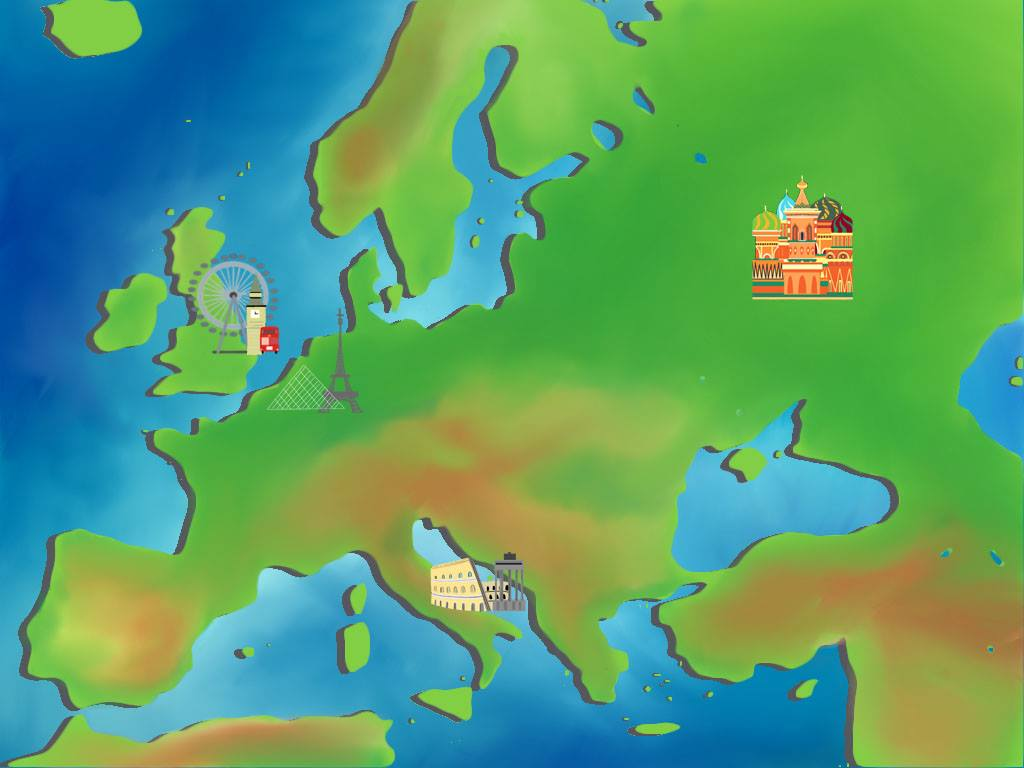
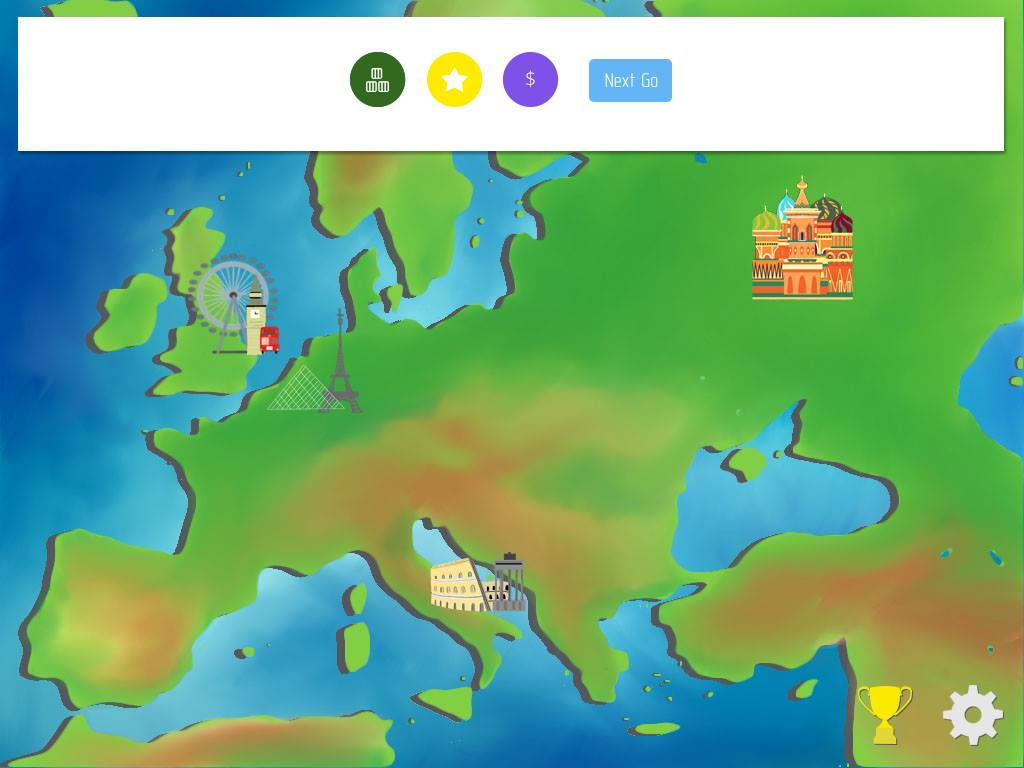
LabelButton hotfix + Esc to quit pushed scene functionality

Changed region(s): [[0.0, 0.0, 1.0, 0.2188], [0.8438, 0.875, 1.0, 0.9688]]

diff --git a/core/src/com/turkishdelight/taxe/Game.java b/core/src/com/turkishdelight/taxe/Game.java
@@ -7,11 +7,11 @@ import com.badlogic.gdx.ApplicationAdapter;
 import com.badlogic.gdx.Gdx;
 import com.badlogic.gdx.graphics.GL20;
 import com.badlogic.gdx.graphics.g2d.SpriteBatch;
+import com.turkishdelight.taxe.scenes.GameScene;
 import com.turkishdelight.taxe.scenes.MainMenuScene;
 
 public class Game extends ApplicationAdapter {
 	SpriteBatch batch;
-	private Scene currentScene;
 	//These values are used to conform the width and height of the window across both this application and the taxe-desktop application
 	public static final int targetWindowsWidth = 1024;
 	public static final int targetWindowsHeight = 768;
@@ -19,7 +19,6 @@ public class Game extends ApplicationAdapter {
 	//The values store the z values of various layers in the game. SpriteComponents are then sorted by the zorder before being drawn
 	//To create layering
 	//The map is always the lowest layer
-	public static Game activeGame;
 	
 	public static final int backgroundZ = 0;
 	//Locations and routes are displayed in the layer above the map
@@ -35,48 +34,54 @@ public class Game extends ApplicationAdapter {
 	//The current resources window is displayed in the same layer
 	public static final int currentResourcesZ = 3;
 	public static final int mainZ =5;
-	
+	public static Scene topScene;
+	public static Scene currentScene;
 	public static Stack<Scene> scenes = new Stack<Scene>();
 	
 	public void create () {
 		System.out.println("Game created");
-		activeGame = this;
 		batch = new SpriteBatch();
 		System.out.println("Setting intital scene");
 		//By default we set out scene to the main menu
-		setLocalScene(new MainMenuScene());
+		setScene(new GameScene(new Player(), new Player()));
 		//setLocalScene(new ShopScene());
 	}
 
-	public void setLocalScene(Scene newScene)
+	public static void setPushedScene(Scene newScene)
 	{
-		this.currentScene = newScene;
+		currentScene = newScene;
+		newScene.onFocusGained();
 		Gdx.input.setInputProcessor(newScene);
+		System.out.println("Current Scene:" + newScene.getClass().getSimpleName().toString());
 	}
 	
 	public static void setScene(Scene newScene)
 	{
-		activeGame.setLocalScene(newScene);
-		System.out.println("Current Scene:" + newScene.getClass().getSimpleName().toString());
+		topScene = newScene;
+		setPushedScene(newScene);
 	}
 	
 	public static void popScene()
 	{
 		try
 		{
-			setScene(scenes.pop());
+			currentScene.onFocusLost();
+			setPushedScene(scenes.pop());
 		}
 		catch(EmptyStackException e)
 		{
 			//We are at the bottom of the stack
-			setScene(activeGame.currentScene);
+			setScene(topScene);
 		}
 	}
 	
 	public static void pushScene(Scene s)
 	{
-		scenes.push(s);
-		setScene(s);
+		if(currentScene != topScene)
+		{
+			scenes.push(currentScene);
+		}
+		setPushedScene(s);
 	}
 	
 	

diff --git a/core/src/com/turkishdelight/taxe/scenes/GameScene.java b/core/src/com/turkishdelight/taxe/scenes/GameScene.java
@@ -50,19 +50,6 @@ public class GameScene extends GameGUIScene {
 		delayedCreate();
 	}
 	
-	SpriteComponent guiHeader;
-	
-	@Override
-	public void drawGUIBackground()
-	{
-		// Create background image for goals
-		Texture currentText = new Texture("GUI_Header.png");
-		guiHeader = new SpriteComponent(this, currentText, Game.guiZ);
-		guiHeader.setSize(Game.targetWindowsWidth * 0.98f, guiHeader.getHeight() * (guiHeader.getWidth() * 0.9f / Game.targetWindowsWidth));
-		guiHeader.setPosition((Game.targetWindowsWidth - guiHeader.getWidth()) / 2, Game.targetWindowsHeight - (guiHeader.getHeight() * 1.18f));
-		Add(guiHeader);
-	}
-	
 	@Override
 	public void Draw(SpriteBatch batch) {
 		super.Draw(batch);
@@ -446,7 +433,6 @@ public class GameScene extends GameGUIScene {
 	public void goalsToolbarPressed() 
 	{
 		System.out.println("goalsToolbarPressed");
-		Game.popScene();
 		Game.pushScene(goalsScene);
 	}
 	
@@ -455,7 +441,6 @@ public class GameScene extends GameGUIScene {
 	{
 		System.out.println("shopToolbarPressed");
 		//Switch to shop scene
-		Game.popScene();
 		Game.pushScene(shopScene);
 	}
 	
@@ -463,7 +448,6 @@ public class GameScene extends GameGUIScene {
 	public void resourcesToolbarPressed() 
 	{
 		System.out.println("resourcesToolbarPressed");
-		Game.popScene();
 		Game.pushScene(resourceScene);
 	}
 }

diff --git a/core/src/com/turkishdelight/taxe/Scene.java b/core/src/com/turkishdelight/taxe/Scene.java
@@ -2,6 +2,8 @@ package com.turkishdelight.taxe;
 
 import java.util.ArrayList;
 
+import com.badlogic.gdx.Gdx;
+import com.badlogic.gdx.Input.Keys;
 import com.badlogic.gdx.InputProcessor;
 import com.badlogic.gdx.graphics.g2d.SpriteBatch;
 
@@ -108,7 +110,16 @@ public class Scene implements InputProcessor{
 	@Override
 	public boolean keyUp(int keycode) {
 		//No Action
+		if(keycode == Keys.ESCAPE)
+		{
+			onEscPressed();
+		}
 		return false;
+	}
+	
+	public void onEscPressed()
+	{
+		Game.popScene();
 	}
 
 	@Override
@@ -178,5 +189,15 @@ public class Scene implements InputProcessor{
 	public int getMouseY()
 	{
 		return mouseY;
+	}
+	
+	public void onFocusGained()
+	{
+		
+	}
+	
+	public void onFocusLost()
+	{
+		
 	}
 }

diff --git a/core/src/com/turkishdelight/taxe/scenes/GameWindowedGUIScene.java b/core/src/com/turkishdelight/taxe/scenes/GameWindowedGUIScene.java
@@ -10,6 +10,12 @@ public class GameWindowedGUIScene extends GameGUIScene{
 	public GameWindowedGUIScene(GameScene parent, Player p1, Player p2) {
 		super(p1, p2, true);
 		parentGame = parent;
+	}
+	
+	@Override
+	public void onFocusGained()
+	{
+		super.onFocusGained();
 		this.player1Go = parentGame.player1Go;
 		if(this.player1Go)
 		{

diff --git a/core/src/com/turkishdelight/taxe/guiobjects/LabelButton.java b/core/src/com/turkishdelight/taxe/guiobjects/LabelButton.java
@@ -77,8 +77,8 @@ public class LabelButton extends Button {
 		super.draw(batch);
 		
 		float originX = 0;
-		float originY = this.getY();
 		TextBounds bounds = font.getBounds(text);
+		float originY = this.getY() + (this.getHeight() / 2) - (bounds.height / 2);
 		
 		// Left Alignment
 		if (alignment == 0) {

diff --git a/core/src/com/turkishdelight/taxe/scenes/GameGUIScene.java b/core/src/com/turkishdelight/taxe/scenes/GameGUIScene.java
@@ -40,6 +40,12 @@ public class GameGUIScene extends Scene{
 		initialiseGUI(hasWindow);
 	}
 	
+	@Override
+	public void onFocusGained()
+	{
+		this.updateValues();
+	}
+	
 	public void initialiseGUI(boolean hasWindow)
 	{
 		//Draw background
